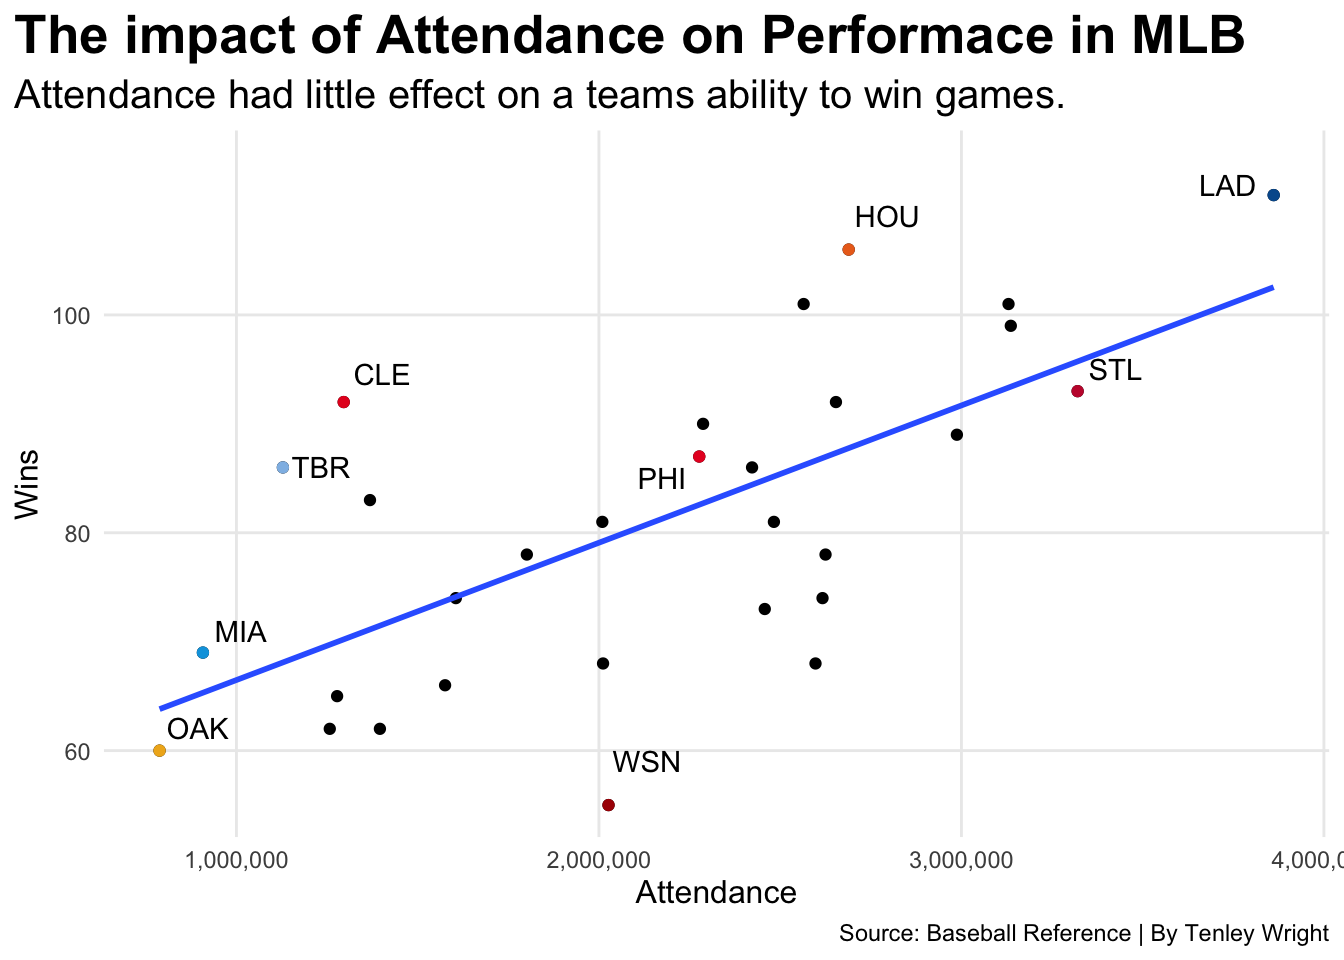
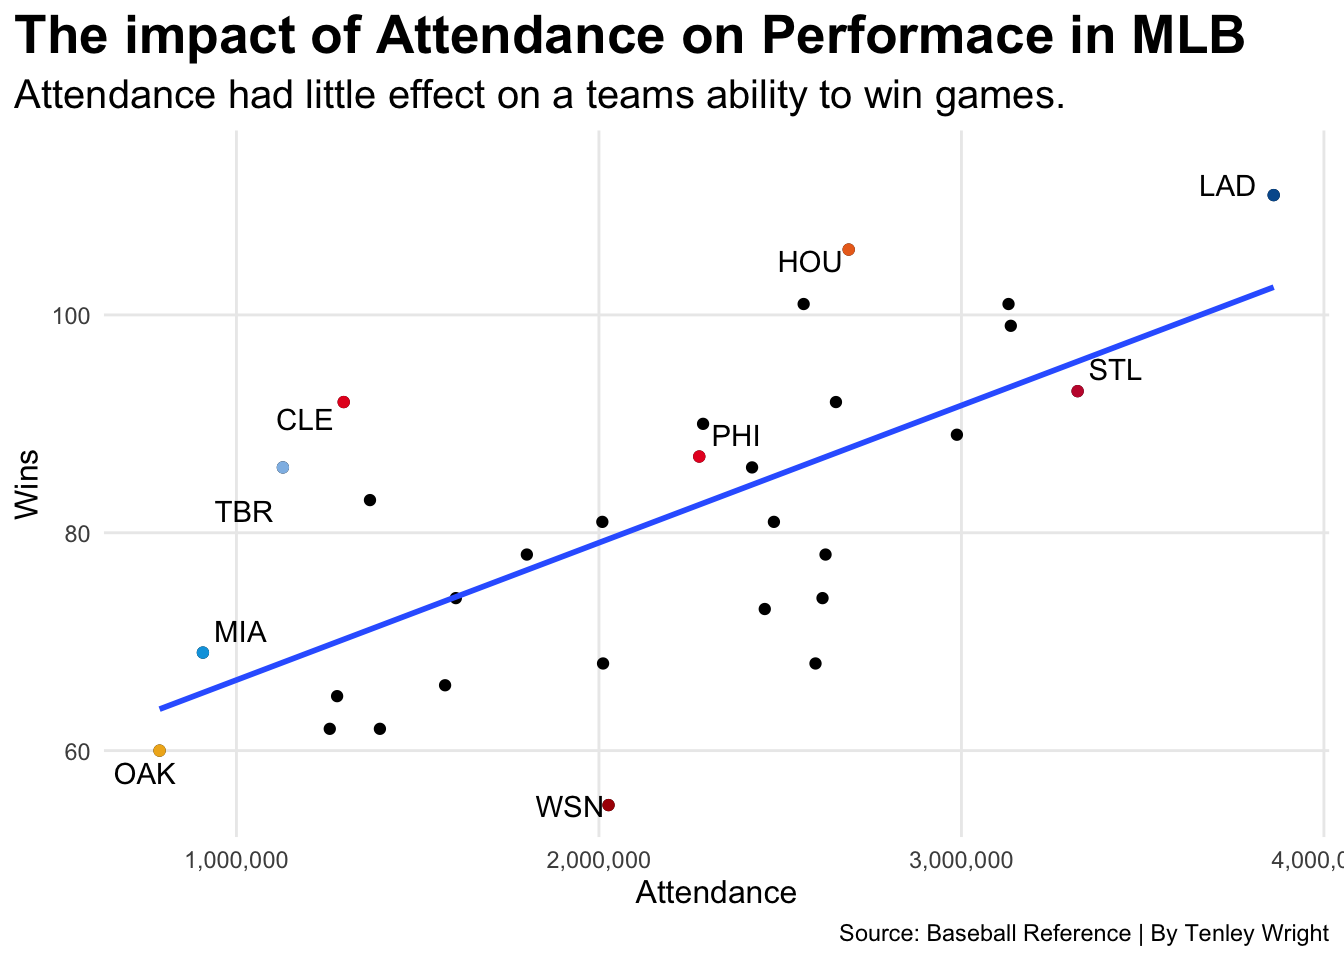
second test project post
updating code and text position. still no blog post

diff --git a/posts/does-attendance-impact-performace-in-the-mlb/index.html b/posts/does-attendance-impact-performace-in-the-mlb/index.html
@@ -6,6 +6,8 @@
 
 <meta name="viewport" content="width=device-width, initial-scale=1.0, user-scalable=yes">
 
+<meta name="author" content="Tenley Wright">
+<meta name="dcterms.date" content="2022-04-16">
 
 <title>Tenley Wright’s Blog - Does Attendance Impact Team Performance in the MLB</title>
 <style>
@@ -93,8 +95,6 @@ code span.wa { color: #60a0b0; font-weight: bold; font-style: italic; } /* Warni
 <script src="../../site_libs/quarto-search/fuse.min.js"></script>
 <script src="../../site_libs/quarto-search/quarto-search.js"></script>
 <meta name="quarto:offset" content="../../">
-<script src="../../site_libs/quarto-listing/list.min.js"></script>
-<script src="../../site_libs/quarto-listing/quarto-listing.js"></script>
 <script src="../../site_libs/quarto-html/quarto.js"></script>
 <script src="../../site_libs/quarto-html/popper.min.js"></script>
 <script src="../../site_libs/quarto-html/tippy.umd.min.js"></script>
@@ -125,42 +125,12 @@ code span.wa { color: #60a0b0; font-weight: bold; font-style: italic; } /* Warni
     "search-submit-button-title": "Submit"
   }
 }</script>
-<script>
 
-  window.document.addEventListener("DOMContentLoaded", function (_event) {
-    const listingTargetEl = window.document.querySelector('#listing-listing .list');
-    if (!listingTargetEl) {
-      // No listing discovered, do not attach.
-      return; 
-    }
-
-    const options = {
-      valueNames: ['listing-categories',{ data: ['index'] },{ data: ['categories'] },{ data: ['listing-date-sort'] },{ data: ['listing-file-modified-sort'] }],
-      
-      searchColumns: ["listing-categories"],
-    };
-
-    window['quarto-listings'] = window['quarto-listings'] || {};
-    window['quarto-listings']['listing-listing'] = new List('listing-listing', options);
-
-    if (window['quarto-listing-loaded']) {
-      window['quarto-listing-loaded']();
-    }
-  });
-
-  window.addEventListener('hashchange',() => {
-    if (window['quarto-listing-loaded']) {
-      window['quarto-listing-loaded']();
-    }
-  })
-  </script>
-
-  <script src="https://cdn.jsdelivr.net/npm/mathjax@3/es5/tex-chtml-full.js" type="text/javascript"></script>
 
 <link rel="stylesheet" href="../../styles.css">
 </head>
 
-<body class="nav-fixed">
+<body class="nav-fixed fullcontent">
 
 <div id="quarto-search-results"></div>
   <header id="quarto-header" class="headroom fixed-top">
@@ -202,34 +172,51 @@ code span.wa { color: #60a0b0; font-weight: bold; font-style: italic; } /* Warni
 <!-- content -->
 <header id="title-block-header" class="quarto-title-block default page-columns page-full">
   <div class="quarto-title-banner page-columns page-full">
-    <div class="quarto-title column-page-left">
+    <div class="quarto-title column-body">
       <h1 class="title">Does Attendance Impact Team Performance in the MLB</h1>
-                      </div>
+                                <div class="quarto-categories">
+                <div class="quarto-category">MLB</div>
+                <div class="quarto-category">Baseball</div>
+                <div class="quarto-category">Attendance</div>
+              </div>
+                  </div>
   </div>
     
   
   <div class="quarto-title-meta">
 
+      <div>
+      <div class="quarto-title-meta-heading">Author</div>
+      <div class="quarto-title-meta-contents">
+               <p>Tenley Wright </p>
+            </div>
+    </div>
       
+      <div>
+      <div class="quarto-title-meta-heading">Published</div>
+      <div class="quarto-title-meta-contents">
+        <p class="date">April 16, 2022</p>
+      </div>
+    </div>
     
       
     </div>
     
   
-  </header><div id="quarto-content" class="quarto-container page-columns page-rows-contents page-layout-full page-navbar">
+  </header><div id="quarto-content" class="quarto-container page-columns page-rows-contents page-layout-article page-navbar">
 <!-- sidebar -->
 <!-- margin-sidebar -->
-    <div id="quarto-margin-sidebar" class="sidebar margin-sidebar">
-        
-    <h5 class="quarto-listing-category-title">Categories</h5><div class="quarto-listing-category category-default"><div class="category" data-category="">All <span class="quarto-category-count">(0)</span></div></div></div>
+    
 <!-- main -->
-<main class="content quarto-banner-title-block column-page-left" id="quarto-document-content">
+<main class="content quarto-banner-title-block" id="quarto-document-content">
 
 
 
 
 <p>blog post goes here</p>
 <div class="cell">
+<details>
+<summary>Code</summary>
 <div class="sourceCode cell-code" id="cb1"><pre class="sourceCode r code-with-copy"><code class="sourceCode r"><span id="cb1-1"><a href="#cb1-1" aria-hidden="true" tabindex="-1"></a><span class="fu">library</span>(tidyverse)</span>
 <span id="cb1-2"><a href="#cb1-2" aria-hidden="true" tabindex="-1"></a><span class="fu">library</span>(scales)</span>
 <span id="cb1-3"><a href="#cb1-3" aria-hidden="true" tabindex="-1"></a><span class="fu">library</span>(ggrepel)</span>
@@ -296,7 +283,7 @@ code span.wa { color: #60a0b0; font-weight: bold; font-style: italic; } /* Warni
 <span id="cb1-64"><a href="#cb1-64" aria-hidden="true" tabindex="-1"></a>  <span class="fu">geom_text</span>(<span class="fu">aes</span>(<span class="at">x=</span><span class="dv">25</span>, <span class="at">y=</span><span class="dv">3390000</span>, <span class="at">label=</span><span class="st">"Houston won the world series"</span>), <span class="at">color=</span><span class="st">"black"</span>) <span class="sc">+</span></span>
 <span id="cb1-65"><a href="#cb1-65" aria-hidden="true" tabindex="-1"></a>  <span class="fu">geom_text</span>(<span class="fu">aes</span>(<span class="at">x=</span><span class="dv">15</span>, <span class="at">y=</span><span class="dv">3050000</span>, <span class="at">label=</span><span class="st">"Philly made it to the world series"</span>), <span class="at">color=</span><span class="st">"black"</span>) <span class="sc">+</span></span>
 <span id="cb1-66"><a href="#cb1-66" aria-hidden="true" tabindex="-1"></a>  <span class="fu">geom_text</span>(<span class="fu">aes</span>(<span class="at">x=</span><span class="dv">6</span>, <span class="at">y=</span><span class="dv">2500000</span>, <span class="at">label=</span><span class="st">"Cleveland won 92 games and finished 7th overall"</span>), <span class="at">color=</span><span class="st">"black"</span>) <span class="sc">+</span></span>
-<span id="cb1-67"><a href="#cb1-67" aria-hidden="true" tabindex="-1"></a>  <span class="fu">geom_text</span>(<span class="fu">aes</span>(<span class="at">x=</span><span class="dv">20</span>, <span class="at">y=</span><span class="dv">280000</span>, <span class="at">label=</span><span class="st">"&lt;&lt;League Average Attendance"</span>), <span class="at">color=</span><span class="st">"blue"</span>) <span class="sc">+</span></span>
+<span id="cb1-67"><a href="#cb1-67" aria-hidden="true" tabindex="-1"></a>  <span class="fu">geom_text</span>(<span class="fu">aes</span>(<span class="at">x=</span><span class="st">"NYM"</span>, <span class="at">y=</span><span class="dv">2860000</span>, <span class="at">label=</span><span class="st">"&lt;&lt;League Average Attendance"</span>), <span class="at">color=</span><span class="st">"blue"</span>) <span class="sc">+</span></span>
 <span id="cb1-68"><a href="#cb1-68" aria-hidden="true" tabindex="-1"></a>  <span class="fu">geom_hline</span>(<span class="at">yintercept =</span> <span class="dv">2151889</span>, <span class="at">color=</span><span class="st">"blue"</span>)<span class="sc">+</span> </span>
 <span id="cb1-69"><a href="#cb1-69" aria-hidden="true" tabindex="-1"></a>  <span class="fu">scale_y_continuous</span>(<span class="at">labels=</span>comma)<span class="sc">+</span></span>
 <span id="cb1-70"><a href="#cb1-70" aria-hidden="true" tabindex="-1"></a>  <span class="fu">coord_flip</span>()<span class="sc">+</span></span>
@@ -309,19 +296,22 @@ code span.wa { color: #60a0b0; font-weight: bold; font-style: italic; } /* Warni
 <span id="cb1-77"><a href="#cb1-77" aria-hidden="true" tabindex="-1"></a>    ) <span class="sc">+</span></span>
 <span id="cb1-78"><a href="#cb1-78" aria-hidden="true" tabindex="-1"></a>  <span class="fu">theme_minimal</span>() <span class="sc">+</span> </span>
 <span id="cb1-79"><a href="#cb1-79" aria-hidden="true" tabindex="-1"></a>  <span class="fu">theme</span>(</span>
-<span id="cb1-80"><a href="#cb1-80" aria-hidden="true" tabindex="-1"></a>    <span class="at">plot.title =</span> <span class="fu">element_text</span>(<span class="at">size =</span> <span class="dv">17</span>, <span class="at">face =</span> <span class="st">"bold"</span>),</span>
+<span id="cb1-80"><a href="#cb1-80" aria-hidden="true" tabindex="-1"></a>    <span class="at">plot.title =</span> <span class="fu">element_text</span>(<span class="at">size =</span> <span class="dv">16</span>, <span class="at">face =</span> <span class="st">"bold"</span>),</span>
 <span id="cb1-81"><a href="#cb1-81" aria-hidden="true" tabindex="-1"></a>    <span class="at">axis.title =</span> <span class="fu">element_text</span>(<span class="at">size =</span> <span class="dv">12</span>), </span>
 <span id="cb1-82"><a href="#cb1-82" aria-hidden="true" tabindex="-1"></a>    <span class="at">axis.text.y=</span><span class="fu">element_text</span>(<span class="at">size =</span> <span class="dv">8</span>),</span>
 <span id="cb1-83"><a href="#cb1-83" aria-hidden="true" tabindex="-1"></a>    <span class="at">plot.subtitle =</span> <span class="fu">element_text</span>(<span class="at">size=</span><span class="dv">14</span>), </span>
 <span id="cb1-84"><a href="#cb1-84" aria-hidden="true" tabindex="-1"></a>    <span class="at">panel.grid.minor =</span> <span class="fu">element_blank</span>(),</span>
 <span id="cb1-85"><a href="#cb1-85" aria-hidden="true" tabindex="-1"></a>    <span class="at">plot.title.position =</span> <span class="st">"plot"</span></span>
 <span id="cb1-86"><a href="#cb1-86" aria-hidden="true" tabindex="-1"></a>    ) </span></code><button title="Copy to Clipboard" class="code-copy-button"><i class="bi"></i></button></pre></div>
+</details>
 <div class="cell-output-display">
 <p><img src="index_files/figure-html/unnamed-chunk-1-1.png" class="img-fluid" width="672"></p>
 </div>
 </div>
 <p>more blog post here</p>
 <div class="cell">
+<details>
+<summary>Code</summary>
 <div class="sourceCode cell-code" id="cb2"><pre class="sourceCode r code-with-copy"><code class="sourceCode r"><span id="cb2-1"><a href="#cb2-1" aria-hidden="true" tabindex="-1"></a><span class="fu">ggplot</span>() <span class="sc">+</span> </span>
 <span id="cb2-2"><a href="#cb2-2" aria-hidden="true" tabindex="-1"></a>  <span class="fu">geom_point</span>(<span class="at">data=</span>combined, <span class="fu">aes</span>(<span class="at">x=</span><span class="st">`</span><span class="at">2022 Att</span><span class="st">`</span>, <span class="at">y=</span>W)) <span class="sc">+</span></span>
 <span id="cb2-3"><a href="#cb2-3" aria-hidden="true" tabindex="-1"></a>  <span class="fu">geom_smooth</span>(<span class="at">data=</span>combined, <span class="fu">aes</span>(<span class="at">x=</span><span class="st">`</span><span class="at">2022 Att</span><span class="st">`</span>, <span class="at">y=</span>W), <span class="at">method=</span><span class="st">"lm"</span>, <span class="at">se=</span><span class="cn">FALSE</span>)<span class="sc">+</span></span>
@@ -404,12 +394,15 @@ code span.wa { color: #60a0b0; font-weight: bold; font-style: italic; } /* Warni
 <span id="cb2-80"><a href="#cb2-80" aria-hidden="true" tabindex="-1"></a>    <span class="at">panel.grid.minor =</span> <span class="fu">element_blank</span>(),</span>
 <span id="cb2-81"><a href="#cb2-81" aria-hidden="true" tabindex="-1"></a>    <span class="at">plot.title.position =</span> <span class="st">"plot"</span></span>
 <span id="cb2-82"><a href="#cb2-82" aria-hidden="true" tabindex="-1"></a>    ) </span></code><button title="Copy to Clipboard" class="code-copy-button"><i class="bi"></i></button></pre></div>
+</details>
 <div class="cell-output-display">
 <p><img src="index_files/figure-html/unnamed-chunk-2-1.png" class="img-fluid" width="672"></p>
 </div>
 </div>
 <p>more blog post here</p>
 <div class="cell">
+<details>
+<summary>Code</summary>
 <div class="sourceCode cell-code" id="cb3"><pre class="sourceCode r code-with-copy"><code class="sourceCode r"><span id="cb3-1"><a href="#cb3-1" aria-hidden="true" tabindex="-1"></a><span class="fu">ggplot</span>() <span class="sc">+</span> </span>
 <span id="cb3-2"><a href="#cb3-2" aria-hidden="true" tabindex="-1"></a>  <span class="fu">geom_point</span>(</span>
 <span id="cb3-3"><a href="#cb3-3" aria-hidden="true" tabindex="-1"></a>    <span class="at">data=</span>combinedinfo, </span>
@@ -502,18 +495,19 @@ code span.wa { color: #60a0b0; font-weight: bold; font-style: italic; } /* Warni
 <span id="cb3-90"><a href="#cb3-90" aria-hidden="true" tabindex="-1"></a>    <span class="at">x=</span><span class="st">"Season Attendance"</span>, </span>
 <span id="cb3-91"><a href="#cb3-91" aria-hidden="true" tabindex="-1"></a>    <span class="at">y=</span><span class="st">"Wins"</span>, </span>
 <span id="cb3-92"><a href="#cb3-92" aria-hidden="true" tabindex="-1"></a>    <span class="at">title=</span><span class="st">"The impact of Payroll on Attendance and Performance"</span>, </span>
-<span id="cb3-93"><a href="#cb3-93" aria-hidden="true" tabindex="-1"></a>    <span class="at">subtitle=</span><span class="st">"In 2022, teams with a higher payroll were winning more and drawing more fans to their games."</span>, </span>
+<span id="cb3-93"><a href="#cb3-93" aria-hidden="true" tabindex="-1"></a>    <span class="at">subtitle=</span><span class="st">"In 2022, teams with a higher payroll were winning more games and drawing more fans to their ballpark."</span>, </span>
 <span id="cb3-94"><a href="#cb3-94" aria-hidden="true" tabindex="-1"></a>    <span class="at">caption=</span><span class="st">"Source: Baseball Reference | By Tenley Wright"</span></span>
 <span id="cb3-95"><a href="#cb3-95" aria-hidden="true" tabindex="-1"></a>    ) <span class="sc">+</span></span>
 <span id="cb3-96"><a href="#cb3-96" aria-hidden="true" tabindex="-1"></a>  <span class="fu">theme_minimal</span>() <span class="sc">+</span> </span>
 <span id="cb3-97"><a href="#cb3-97" aria-hidden="true" tabindex="-1"></a>  <span class="fu">theme</span>(</span>
-<span id="cb3-98"><a href="#cb3-98" aria-hidden="true" tabindex="-1"></a>    <span class="at">plot.title =</span> <span class="fu">element_text</span>(<span class="at">size =</span> <span class="dv">20</span>, <span class="at">face =</span> <span class="st">"bold"</span>),</span>
+<span id="cb3-98"><a href="#cb3-98" aria-hidden="true" tabindex="-1"></a>    <span class="at">plot.title =</span> <span class="fu">element_text</span>(<span class="at">size =</span> <span class="dv">18</span>, <span class="at">face =</span> <span class="st">"bold"</span>),</span>
 <span id="cb3-99"><a href="#cb3-99" aria-hidden="true" tabindex="-1"></a>    <span class="at">axis.title =</span> <span class="fu">element_text</span>(<span class="at">size =</span> <span class="dv">14</span>), </span>
-<span id="cb3-100"><a href="#cb3-100" aria-hidden="true" tabindex="-1"></a>    <span class="at">plot.subtitle =</span> <span class="fu">element_text</span>(<span class="at">size=</span><span class="dv">12</span>), </span>
+<span id="cb3-100"><a href="#cb3-100" aria-hidden="true" tabindex="-1"></a>    <span class="at">plot.subtitle =</span> <span class="fu">element_text</span>(<span class="at">size=</span><span class="dv">11</span>), </span>
 <span id="cb3-101"><a href="#cb3-101" aria-hidden="true" tabindex="-1"></a>    <span class="at">panel.grid.minor =</span> <span class="fu">element_blank</span>(),</span>
 <span id="cb3-102"><a href="#cb3-102" aria-hidden="true" tabindex="-1"></a>    <span class="at">plot.title.position =</span> <span class="st">"plot"</span>,</span>
 <span id="cb3-103"><a href="#cb3-103" aria-hidden="true" tabindex="-1"></a>    <span class="at">legend.position=</span><span class="st">"right"</span></span>
 <span id="cb3-104"><a href="#cb3-104" aria-hidden="true" tabindex="-1"></a>    ) </span></code><button title="Copy to Clipboard" class="code-copy-button"><i class="bi"></i></button></pre></div>
+</details>
 <div class="cell-output-display">
 <p><img src="index_files/figure-html/unnamed-chunk-3-1.png" class="img-fluid" width="672"></p>
 </div>
@@ -522,15 +516,7 @@ code span.wa { color: #60a0b0; font-weight: bold; font-style: italic; } /* Warni
 
 
 
-
-<div class="quarto-listing quarto-listing-container-default" id="listing-listing">
-<div class="list quarto-listing-default">
-
-</div>
-<div class="listing-no-matching d-none">
-No matching items
-</div>
-</div></main> <!-- /main -->
+</main> <!-- /main -->
 <script id="quarto-html-after-body" type="application/javascript">
 window.document.addEventListener("DOMContentLoaded", function (event) {
   const toggleBodyColorMode = (bsSheetEl) => {

diff --git a/index.html b/index.html
@@ -158,7 +158,7 @@ ul.task-list li input[type="checkbox"] {
 <!-- margin-sidebar -->
     <div id="quarto-margin-sidebar" class="sidebar margin-sidebar">
         
-    <h5 class="quarto-listing-category-title">Categories</h5><div class="quarto-listing-category category-default"><div class="category" data-category="">All <span class="quarto-category-count">(3)</span></div><div class="category" data-category="analysis">analysis <span class="quarto-category-count">(1)</span></div><div class="category" data-category="code">code <span class="quarto-category-count">(1)</span></div><div class="category" data-category="news">news <span class="quarto-category-count">(2)</span></div></div></div>
+    <h5 class="quarto-listing-category-title">Categories</h5><div class="quarto-listing-category category-default"><div class="category" data-category="">All <span class="quarto-category-count">(3)</span></div><div class="category" data-category="Attendance">Attendance <span class="quarto-category-count">(1)</span></div><div class="category" data-category="Baseball">Baseball <span class="quarto-category-count">(1)</span></div><div class="category" data-category="MLB">MLB <span class="quarto-category-count">(1)</span></div><div class="category" data-category="analysis">analysis <span class="quarto-category-count">(1)</span></div><div class="category" data-category="code">code <span class="quarto-category-count">(1)</span></div><div class="category" data-category="news">news <span class="quarto-category-count">(2)</span></div></div></div>
 <!-- main -->
 <main class="content quarto-banner-title-block column-page-left" id="quarto-document-content">
 
@@ -171,32 +171,7 @@ ul.task-list li input[type="checkbox"] {
 
 <div class="quarto-listing quarto-listing-container-default" id="listing-listing">
 <div class="list quarto-listing-default">
-<div class="quarto-post image-right" data-index="0" data-listing-file-modified-sort="1681498493994" data-listing-reading-time-sort="6.885">
-<div class="thumbnail">
-<a href="./posts/does-attendance-impact-performace-in-the-mlb/index.html">
-<div class="thumbnail-image">
-
-</div>
-</a><p><a href="./posts/does-attendance-impact-performace-in-the-mlb/index.html"></a></p>
-</div>
-<div class="body">
-<a href="./posts/does-attendance-impact-performace-in-the-mlb/index.html">
-<h3 class="no-anchor listing-title">
-Does Attendance Impact Team Performance in the MLB
-</h3>
-<div class="listing-subtitle">
-
-</div>
-<div class="listing-description">
-blog post goes here
-</div>
-</a>
-</div>
-<div class="metadata">
-<a href="./posts/does-attendance-impact-performace-in-the-mlb/index.html"> </a>
-</div>
-</div>
-<div class="quarto-post image-right" data-index="1" data-categories="news,code,analysis" data-listing-date-sort="1679288400000" data-listing-file-modified-sort="1679338715816" data-listing-reading-time-sort="0.045">
+<div class="quarto-post image-right" data-index="0" data-categories="news,code,analysis" data-listing-date-sort="1679288400000" data-listing-file-modified-sort="1679338715816" data-listing-reading-time-sort="0.045">
 <div class="thumbnail">
 <p><a href="./posts/post-with-code/index.html"> <img src="./posts/post-with-code/image.jpg" class="thumnail-image"> </a></p>
 </div>
@@ -237,7 +212,7 @@ Harlow Malloc
 </a>
 </div>
 </div>
-<div class="quarto-post image-right" data-index="2" data-categories="news" data-listing-date-sort="1679029200000" data-listing-file-modified-sort="1679338715815" data-listing-reading-time-sort="0.16">
+<div class="quarto-post image-right" data-index="1" data-categories="news" data-listing-date-sort="1679029200000" data-listing-file-modified-sort="1679338715815" data-listing-reading-time-sort="0.16">
 <div class="thumbnail">
 <p><a href="./posts/welcome/index.html"> <img src="./posts/welcome/thumbnail.jpg" class="thumnail-image"> </a></p>
 </div>
@@ -268,6 +243,47 @@ Mar 17, 2023
 </div>
 <div class="listing-author">
 Tristan O’Malley
+</div>
+</a>
+</div>
+</div>
+<div class="quarto-post image-right" data-index="2" data-categories="MLB,Baseball,Attendance" data-listing-date-sort="1650085200000" data-listing-file-modified-sort="1681499978807" data-listing-reading-time-sort="6.89">
+<div class="thumbnail">
+<p><a href="./posts/does-attendance-impact-performace-in-the-mlb/index.html"> <img src="./posts/does-attendance-impact-performace-in-the-mlb/image.png" class="thumnail-image"> </a></p>
+</div>
+<div class="body">
+<a href="./posts/does-attendance-impact-performace-in-the-mlb/index.html">
+<h3 class="no-anchor listing-title">
+Does Attendance Impact Team Performance in the MLB
+</h3>
+<div class="listing-subtitle">
+
+</div>
+</a>
+<div class="listing-categories">
+<div class="listing-category" onclick="window.quartoListingCategory('MLB'); return false;">
+MLB
+</div>
+<div class="listing-category" onclick="window.quartoListingCategory('Baseball'); return false;">
+Baseball
+</div>
+<div class="listing-category" onclick="window.quartoListingCategory('Attendance'); return false;">
+Attendance
+</div>
+</div>
+<a href="./posts/does-attendance-impact-performace-in-the-mlb/index.html">
+<div class="listing-description">
+blog post goes here
+</div>
+</a>
+</div>
+<div class="metadata">
+<a href="./posts/does-attendance-impact-performace-in-the-mlb/index.html">
+<div class="listing-date">
+Apr 16, 2022
+</div>
+<div class="listing-author">
+Tenley Wright
 </div>
 </a>
 </div>

diff --git a/Wright_BlogCode.html b/Wright_BlogCode.html
@@ -293,7 +293,7 @@ time  (1): Time
 <span id="cb13-2"><a href="#cb13-2" aria-hidden="true" tabindex="-1"></a>  <span class="fu">arrange</span>(<span class="fu">desc</span>(<span class="st">'2022 Att'</span>)) <span class="sc">%&gt;%</span> </span>
 <span id="cb13-3"><a href="#cb13-3" aria-hidden="true" tabindex="-1"></a>  <span class="fu">select</span>(Tm, <span class="st">`</span><span class="at">2022 Att</span><span class="st">`</span>)</span></code><button title="Copy to Clipboard" class="code-copy-button"><i class="bi"></i></button></pre></div>
 </div>
-<p>bar/line chart - Need to ask if the text and colors is too much</p>
+<p>bar/line chart</p>
 <div class="cell">
 <div class="sourceCode cell-code" id="cb14"><pre class="sourceCode r code-with-copy"><code class="sourceCode r"><span id="cb14-1"><a href="#cb14-1" aria-hidden="true" tabindex="-1"></a><span class="fu">ggplot</span>() <span class="sc">+</span> </span>
 <span id="cb14-2"><a href="#cb14-2" aria-hidden="true" tabindex="-1"></a>  <span class="fu">geom_bar</span>(<span class="at">data=</span>attendance, <span class="fu">aes</span>(<span class="at">x=</span><span class="fu">reorder</span>(Tm, <span class="st">`</span><span class="at">2022 Att</span><span class="st">`</span>), <span class="at">weight=</span> <span class="st">`</span><span class="at">2022 Att</span><span class="st">`</span>), <span class="at">fill =</span> <span class="st">"light grey"</span>) <span class="sc">+</span></span>
@@ -327,7 +327,6 @@ time  (1): Time
 <p><img src="Wright_BlogCode_files/figure-html/unnamed-chunk-4-1.png" class="img-fluid" width="672"></p>
 </div>
 </div>
-<p>note: rays made the postseason (ALDS) yet placed 3rd to last in season attendance in 2022</p>
 <p>scatterplot</p>
 <div class="cell">
 <div class="sourceCode cell-code" id="cb15"><pre class="sourceCode r code-with-copy"><code class="sourceCode r"><span id="cb15-1"><a href="#cb15-1" aria-hidden="true" tabindex="-1"></a><span class="fu">ggplot</span>() <span class="sc">+</span> </span>
@@ -419,8 +418,6 @@ time  (1): Time
 <p><img src="Wright_BlogCode_files/figure-html/unnamed-chunk-5-1.png" class="img-fluid" width="672"></p>
 </div>
 </div>
-<p>notes: We know that a straight line across means there is no pattern/correlation -CLE was 6th to last in Attendance, yet finished ranked 7th in 2022 with 92 wins. Tampa Bay wasn’t far behind them on attendance or wins either. They finished third to last in attendance with an average of 13,927 fans per game.</p>
-<p>Tropicana Field is currently the smallest baseball stadium, with a capacity of only 25,000 since 2019. The ballpark is located in St.&nbsp;Petersburg, Florida, and is home to the Tampa Bay Rays. The ballpark opened in 1990 and, technically, could hold 42,735 people. They reduced the stadium’s capacity in 2019 when they decided to tarp off the upper decks. Yikes.</p>
 <p>bubble chart</p>
 <div class="cell">
 <div class="sourceCode cell-code" id="cb17"><pre class="sourceCode r code-with-copy"><code class="sourceCode r"><span id="cb17-1"><a href="#cb17-1" aria-hidden="true" tabindex="-1"></a><span class="fu">ggplot</span>() <span class="sc">+</span> </span>
